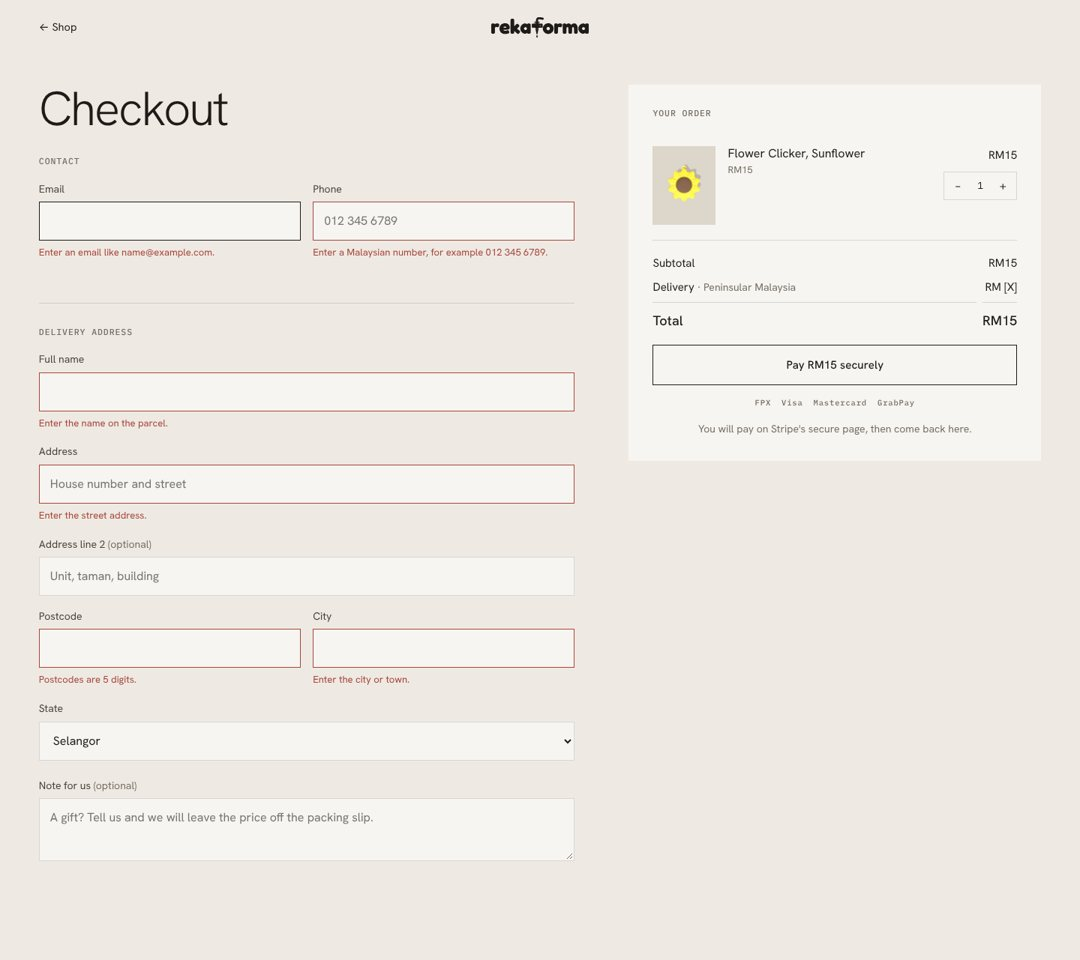
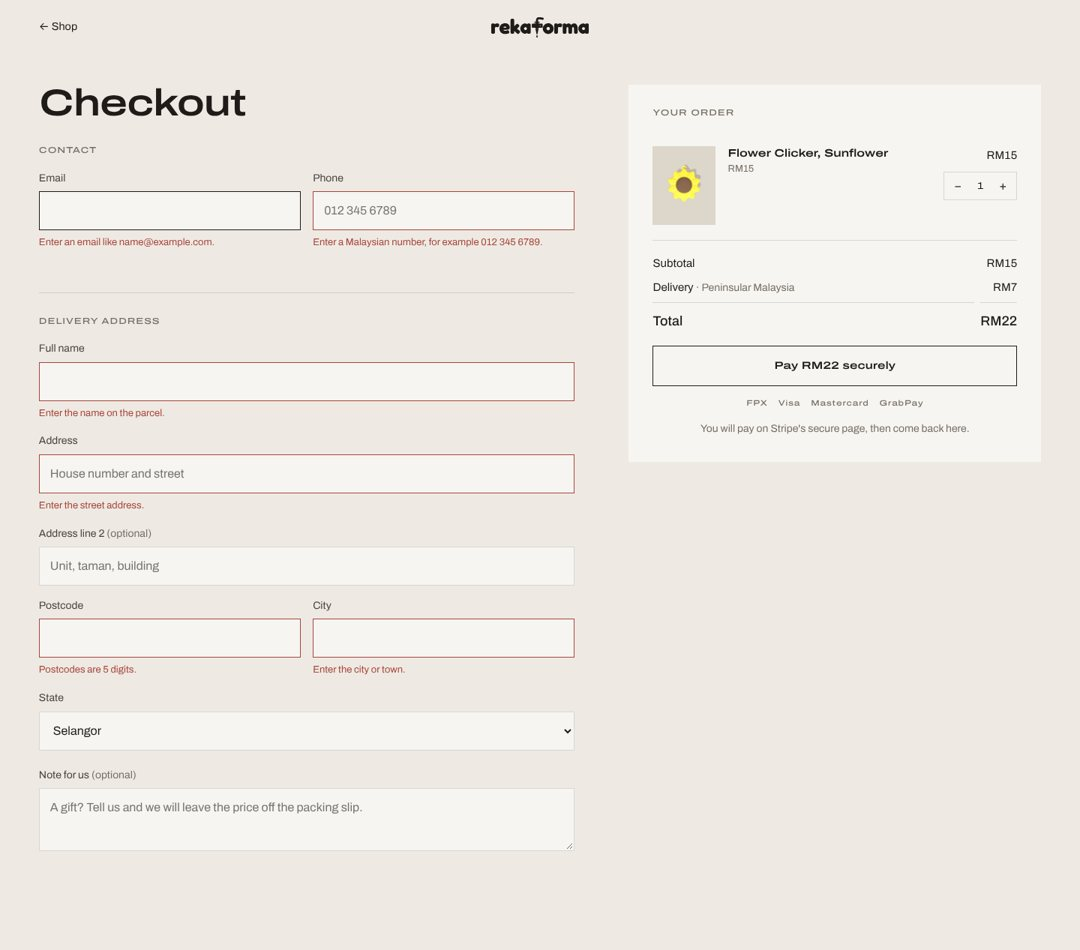
Switch typography to Archivo: expanded width for titles and labels, normal width for body
Claude-Session: https://claude.ai/code/session_01NwG5cbLNiEAMFugpgHHxMg

diff --git a/assets/css/site.css b/assets/css/site.css
@@ -14,8 +14,10 @@
   --line: rgba(30, 27, 24, .14);
   --brick: #a8453c;       /* brand signature, used sparingly */
 
-  --sans: "Hanken Grotesk", "Helvetica Neue", Arial, sans-serif;
-  --mono: "IBM Plex Mono", ui-monospace, Menlo, monospace;
+  /* one family, two widths: Archivo Expanded for titles and labels, Archivo for reading */
+  --sans: "Archivo", "Helvetica Neue", Arial, sans-serif;
+  --mono: "Archivo", "Helvetica Neue", Arial, sans-serif;
+  --wide: 125%;
 
   --gutter: clamp(16px, 3.6vw, 56px);
   --max: 1440px;
@@ -51,10 +53,10 @@ button, input, select, textarea { font: inherit; color: inherit; }
 }
 
 /* type */
-.label { font: 500 11.5px/1.3 var(--mono); letter-spacing: .08em; text-transform: uppercase; color: var(--muted); }
-.display { font: 300 clamp(44px, 6.6vw, 104px)/.98 var(--sans); letter-spacing: -.035em; margin: 0; text-wrap: balance; }
-.h2 { font: 300 clamp(34px, 4.2vw, 64px)/1.02 var(--sans); letter-spacing: -.03em; margin: 0; text-wrap: balance; }
-.statement { font: 300 clamp(26px, 3vw, 46px)/1.18 var(--sans); letter-spacing: -.025em; margin: 0; text-wrap: pretty; }
+.label { font: 500 11.5px/1.3 var(--mono); font-stretch: var(--wide); letter-spacing: .08em; text-transform: uppercase; color: var(--muted); }
+.display { font: 600 clamp(38px, 5.4vw, 84px)/1 var(--sans); font-stretch: var(--wide); letter-spacing: -.025em; margin: 0; text-wrap: balance; }
+.h2 { font: 600 clamp(28px, 3.4vw, 52px)/1.04 var(--sans); font-stretch: var(--wide); letter-spacing: -.02em; margin: 0; text-wrap: balance; }
+.statement { font: 400 clamp(24px, 2.6vw, 40px)/1.22 var(--sans); letter-spacing: -.02em; margin: 0; text-wrap: pretty; }
 .statement em { font-style: normal; color: var(--muted); }
 .body { color: var(--ink-2); max-width: 46ch; margin: 0; font-size: 17px; }
 .small { font-size: 14px; color: var(--muted); }
@@ -71,7 +73,7 @@ button, input, select, textarea { font: inherit; color: inherit; }
 .btn {
   display: inline-flex; align-items: center; justify-content: center; gap: 10px;
   min-height: 54px; padding: 0 30px; border: 1px solid var(--ink); border-radius: 0;
-  background: var(--ink); color: var(--bone); font: 500 15px/1 var(--sans); letter-spacing: .01em;
+  background: var(--ink); color: var(--bone); font: 600 14px/1 var(--sans); font-stretch: var(--wide); letter-spacing: .01em;
   text-decoration: none; cursor: pointer; transition: background .25s, color .25s;
 }
 .btn:hover { background: transparent; color: var(--ink); }
@@ -83,7 +85,7 @@ button, input, select, textarea { font: inherit; color: inherit; }
 
 /* announcement + header */
 .announce {
-  border-bottom: 1px solid var(--line); font: 500 11.5px/1.3 var(--mono); letter-spacing: .08em; text-transform: uppercase;
+  border-bottom: 1px solid var(--line); font: 500 11.5px/1.3 var(--mono); font-stretch: var(--wide); letter-spacing: .08em; text-transform: uppercase;
   color: var(--ink-2); text-align: center; padding: 11px var(--gutter);
 }
 .header {
@@ -96,7 +98,7 @@ button, input, select, textarea { font: inherit; color: inherit; }
 .nav a { font-size: 14.5px; text-decoration: none; color: var(--ink); padding: 8px 0; position: relative; }
 .nav a::after { content: ""; position: absolute; left: 0; right: 0; bottom: 2px; height: 1px; background: currentColor; transform: scaleX(0); transform-origin: right; transition: transform .35s var(--ease); }
 .nav a:hover::after, .nav a[aria-current="page"]::after { transform: scaleX(1); transform-origin: left; }
-.nav .soon { font: 500 10px/1 var(--mono); letter-spacing: .06em; color: var(--muted); margin-left: 6px; vertical-align: 1px; }
+.nav .soon { font: 500 10px/1 var(--mono); font-stretch: var(--wide); letter-spacing: .06em; color: var(--muted); margin-left: 6px; vertical-align: 1px; }
 .brand { justify-self: center; color: var(--ink); display: inline-flex; padding: 8px 0; }
 .brand .logo { width: 132px; }
 .tools { justify-self: end; display: flex; align-items: center; gap: 24px; }
@@ -117,7 +119,7 @@ button, input, select, textarea { font: inherit; color: inherit; }
     opacity: 0; transform: translateY(-6px); pointer-events: none; transition: opacity .2s, transform .2s;
   }
   .nav.open { opacity: 1; transform: none; pointer-events: auto; }
-  .nav a { font: 300 30px/1.2 var(--sans); letter-spacing: -.02em; padding: 14px 0; border-bottom: 1px solid var(--line); }
+  .nav a { font: 600 26px/1.2 var(--sans); font-stretch: var(--wide); letter-spacing: -.015em; padding: 14px 0; border-bottom: 1px solid var(--line); }
   .nav a::after { display: none; }
 }
 
@@ -128,7 +130,7 @@ button, input, select, textarea { font: inherit; color: inherit; }
   position: absolute; inset: 0; display: grid; align-content: end; gap: 24px;
   padding-block: 0 clamp(32px, 5vw, 72px);
 }
-.hero .copy > * { max-width: 14ch; }
+.hero .copy > * { max-width: 13em; }
 .hero .copy > .label { max-width: none; }
 .hero .copy .body { max-width: 36ch; }
 .hero .actions { display: flex; gap: 28px; align-items: center; flex-wrap: wrap; max-width: none; }
@@ -152,7 +154,7 @@ button, input, select, textarea { font: inherit; color: inherit; }
 .card:hover .media img.main { transform: scale(1.03); opacity: 0; }
 .card:hover .media img.alt { opacity: 1; }
 .card .row { display: flex; justify-content: space-between; align-items: baseline; gap: 12px; }
-.card h3 { margin: 0; font: 400 19px/1.3 var(--sans); letter-spacing: -.01em; }
+.card h3 { margin: 0; font: 600 16px/1.3 var(--sans); font-stretch: var(--wide); letter-spacing: -.005em; }
 .card h3 a { text-decoration: none; }
 .card h3 a::after { content: ""; position: absolute; inset: 0; }
 .card .price { font-size: 15px; font-variant-numeric: tabular-nums; }
@@ -173,7 +175,7 @@ button, input, select, textarea { font: inherit; color: inherit; }
 .spec { display: grid; grid-template-columns: 1fr auto; margin: 0; border-top: 1px solid var(--line); }
 .spec dt, .spec dd { margin: 0; padding: 12px 0; border-bottom: 1px solid var(--line); }
 .spec dt { font-size: 15px; color: var(--ink-2); }
-.spec dd { font: 400 14px/1.6 var(--mono); text-align: right; font-variant-numeric: tabular-nums; }
+.spec dd { font: 400 14px/1.6 var(--mono); font-stretch: var(--wide); text-align: right; font-variant-numeric: tabular-nums; }
 @media (max-width: 880px) { .split { grid-template-columns: 1fr; } }
 
 /* full-bleed plate */
@@ -185,7 +187,7 @@ button, input, select, textarea { font: inherit; color: inherit; }
 /* principles */
 .cols { display: grid; grid-template-columns: repeat(3, 1fr); gap: clamp(24px, 3vw, 48px); }
 .cols > div { border-top: 1px solid var(--ink); padding-top: 22px; display: grid; gap: 12px; align-content: start; }
-.cols h3 { margin: 0; font: 400 22px/1.25 var(--sans); letter-spacing: -.015em; }
+.cols h3 { margin: 0; font: 600 19px/1.25 var(--sans); font-stretch: var(--wide); letter-spacing: -.01em; }
 .cols p { margin: 0; color: var(--ink-2); font-size: 16px; max-width: 38ch; }
 @media (max-width: 800px) { .cols { grid-template-columns: 1fr; } }
 
@@ -195,7 +197,7 @@ button, input, select, textarea { font: inherit; color: inherit; }
 .dark .body { color: rgba(238, 234, 227, .78); }
 .news { display: grid; grid-template-columns: 1fr 1fr; gap: clamp(28px, 6vw, 96px); align-items: end; }
 .form { display: flex; border-bottom: 1px solid rgba(238, 234, 227, .5); }
-.form input { flex: 1; min-width: 0; min-height: 56px; background: transparent; border: 0; color: var(--bone); font: 300 22px var(--sans); padding: 0; }
+.form input { flex: 1; min-width: 0; min-height: 56px; background: transparent; border: 0; color: var(--bone); font: 400 20px var(--sans); padding: 0; }
 .form input::placeholder { color: rgba(238, 234, 227, .45); }
 .form input:focus { outline: none; }
 .form:focus-within { border-bottom-color: var(--bone); }
@@ -206,7 +208,7 @@ button, input, select, textarea { font: inherit; color: inherit; }
 /* footer */
 .footer { padding-block: 72px 28px; }
 .footer .top { display: grid; grid-template-columns: 2fr repeat(3, 1fr); gap: 32px; }
-.footer h4 { margin: 0 0 16px; font: 500 11.5px/1 var(--mono); letter-spacing: .08em; text-transform: uppercase; color: var(--muted); }
+.footer h4 { margin: 0 0 16px; font: 500 11.5px/1 var(--mono); font-stretch: var(--wide); letter-spacing: .08em; text-transform: uppercase; color: var(--muted); }
 .footer ul { list-style: none; margin: 0; padding: 0; display: grid; gap: 10px; }
 .footer a { text-decoration: none; font-size: 15px; }
 .footer a:hover { text-decoration: underline; text-underline-offset: 4px; }
@@ -226,25 +228,25 @@ button, input, select, textarea { font: inherit; color: inherit; }
 }
 .drawer.on { transform: none; }
 .drawer-head { display: flex; justify-content: space-between; align-items: center; padding: 0 24px; height: 72px; border-bottom: 1px solid var(--line); }
-.drawer-head h2 { margin: 0; font: 400 20px/1 var(--sans); letter-spacing: -.01em; }
+.drawer-head h2 { margin: 0; font: 600 18px/1 var(--sans); font-stretch: var(--wide); }
 .drawer-body { overflow-y: auto; padding: 0 24px; display: grid; align-content: start; }
 .drawer-foot { border-top: 1px solid var(--line); padding: 20px 24px 24px; display: grid; gap: 14px; }
 .line { display: grid; grid-template-columns: 84px 1fr auto; gap: 16px; align-items: start; padding: 20px 0; border-bottom: 1px solid var(--line); }
 .line img { width: 84px; height: 105px; object-fit: contain; background: var(--stone); padding: 8px; }
-.line h3 { margin: 0; font: 400 16px/1.3 var(--sans); }
+.line h3 { margin: 0; font: 600 14.5px/1.3 var(--sans); font-stretch: var(--wide); }
 .line .unit { font-size: 13px; color: var(--muted); margin-top: 2px; }
 .line .end { display: grid; justify-items: end; gap: 10px; }
 .line .amt { font-size: 15px; font-variant-numeric: tabular-nums; }
 .stepper { display: inline-flex; align-items: center; border: 1px solid var(--line); }
 .stepper button { width: 36px; height: 36px; border: 0; background: transparent; cursor: pointer; font-size: 16px; }
 .stepper button:hover { background: var(--paper); }
-.stepper output { min-width: 24px; text-align: center; font: 400 13px var(--mono); }
+.stepper output { min-width: 24px; text-align: center; font: 400 13px var(--mono); font-stretch: var(--wide); }
 .empty { padding: 64px 0; display: grid; gap: 18px; justify-items: start; color: var(--ink-2); }
 .totals { display: grid; grid-template-columns: 1fr auto; gap: 8px; margin: 0; font-size: 15px; }
 .totals dt, .totals dd { margin: 0; }
 .totals dd { text-align: right; font-variant-numeric: tabular-nums; }
 .totals .grand { font-size: 18px; font-weight: 500; padding-top: 10px; border-top: 1px solid var(--line); }
-.pays { display: flex; gap: 14px; flex-wrap: wrap; justify-content: center; font: 500 10.5px/1 var(--mono); letter-spacing: .08em; color: var(--muted); }
+.pays { display: flex; gap: 14px; flex-wrap: wrap; justify-content: center; font: 500 10.5px/1 var(--mono); font-stretch: var(--wide); letter-spacing: .08em; color: var(--muted); }
 .icon-btn { width: 44px; height: 44px; display: inline-grid; place-items: center; background: none; border: 0; cursor: pointer; }
 .icon-btn svg { width: 20px; height: 20px; }
 
@@ -255,7 +257,7 @@ button, input, select, textarea { font: inherit; color: inherit; }
 .toast.on { opacity: 1; transform: translate(-50%, 0); }
 
 /* ---------- product page ---------- */
-.crumbs { font: 500 11.5px/1 var(--mono); letter-spacing: .06em; text-transform: uppercase; color: var(--muted); padding-block: 22px; display: flex; gap: 10px; flex-wrap: wrap; }
+.crumbs { font: 500 11.5px/1 var(--mono); font-stretch: var(--wide); letter-spacing: .06em; text-transform: uppercase; color: var(--muted); padding-block: 22px; display: flex; gap: 10px; flex-wrap: wrap; }
 .crumbs a { text-decoration: none; }
 .crumbs a:hover { color: var(--ink); }
 .pdp { display: grid; grid-template-columns: minmax(0, 1.35fr) minmax(0, 1fr); gap: clamp(28px, 5vw, 96px); align-items: start; padding-bottom: 40px; }
@@ -264,20 +266,20 @@ button, input, select, textarea { font: inherit; color: inherit; }
 .viewer:active { cursor: grabbing; }
 .viewer img { position: absolute; inset: 6%; width: 88%; height: 88%; object-fit: contain; pointer-events: none; }
 .viewer img.cover { inset: 0; width: 100%; height: 100%; object-fit: cover; }
-.viewer .hint { position: absolute; left: 20px; bottom: 18px; font: 500 11px/1 var(--mono); letter-spacing: .08em; text-transform: uppercase; color: var(--ink-2); display: flex; gap: 8px; align-items: center; transition: opacity .4s; }
+.viewer .hint { position: absolute; left: 20px; bottom: 18px; font: 500 11px/1 var(--mono); font-stretch: var(--wide); letter-spacing: .08em; text-transform: uppercase; color: var(--ink-2); display: flex; gap: 8px; align-items: center; transition: opacity .4s; }
 .viewer .hint svg { width: 16px; height: 16px; }
 .viewer.used .hint, .viewer.still .hint { opacity: 0; }
-.viewer .loading { position: absolute; top: 18px; right: 20px; font: 500 11px/1 var(--mono); letter-spacing: .06em; text-transform: uppercase; color: var(--muted); }
+.viewer .loading { position: absolute; top: 18px; right: 20px; font: 500 11px/1 var(--mono); font-stretch: var(--wide); letter-spacing: .06em; text-transform: uppercase; color: var(--muted); }
 .thumbs { display: grid; grid-template-columns: repeat(6, 1fr); gap: 10px; }
 .thumbs button { aspect-ratio: 1; border: 0; background: var(--stone); padding: 0; cursor: pointer; position: relative; }
 .thumbs button::after { content: ""; position: absolute; inset: 0; box-shadow: inset 0 0 0 1px transparent; transition: box-shadow .2s; }
 .thumbs button[aria-pressed="true"]::after { box-shadow: inset 0 0 0 1.5px var(--ink); }
 .thumbs img { width: 100%; height: 100%; object-fit: contain; padding: 8%; }
 .thumbs img.cover { object-fit: cover; padding: 0; }
-.thumbs .t360 { font: 500 12px/1 var(--mono); letter-spacing: .04em; }
+.thumbs .t360 { font: 500 12px/1 var(--mono); font-stretch: var(--wide); letter-spacing: .04em; }
 
 .buy { display: grid; gap: 28px; position: sticky; top: calc(96px + env(safe-area-inset-top, 0px)); }
-.buy h1 { font: 300 clamp(40px, 4.2vw, 64px)/1 var(--sans); letter-spacing: -.035em; margin: 10px 0 0; }
+.buy h1 { font: 600 clamp(32px, 3.4vw, 50px)/1.02 var(--sans); font-stretch: var(--wide); letter-spacing: -.02em; margin: 10px 0 0; }
 .buy .price { font-size: 20px; font-variant-numeric: tabular-nums; }
 .opt { display: grid; gap: 14px; }
 .opt-label { display: flex; justify-content: space-between; font-size: 14px; }
@@ -289,13 +291,13 @@ button, input, select, textarea { font: inherit; color: inherit; }
 .qty-row { display: grid; grid-template-columns: auto 1fr; gap: 10px; }
 .qty { display: inline-flex; align-items: center; border: 1px solid var(--ink); }
 .qty button { width: 46px; height: 52px; border: 0; background: transparent; cursor: pointer; font-size: 18px; }
-.qty output { min-width: 26px; text-align: center; font: 400 14px var(--mono); }
+.qty output { min-width: 26px; text-align: center; font: 400 14px var(--mono); font-stretch: var(--wide); }
 .hear { display: flex; align-items: center; gap: 16px; padding: 16px 18px; background: var(--paper); }
 .hear p { margin: 0; font-size: 14px; color: var(--ink-2); flex: 1; }
 .hear button {
   flex: none; width: 56px; height: 56px; border-radius: 50%; border: 1px solid var(--ink); background: var(--bone); cursor: pointer;
   box-shadow: 0 4px 0 var(--ink); transition: transform .06s, box-shadow .06s; touch-action: manipulation; user-select: none; -webkit-user-select: none;
-  font: 500 10px/1 var(--mono); letter-spacing: .06em;
+  font: 500 10px/1 var(--mono); font-stretch: var(--wide); letter-spacing: .06em;
 }
 .hear button.down { transform: translateY(4px); box-shadow: 0 0 0 var(--ink); }
 .acc { border-top: 1px solid var(--line); }
@@ -318,10 +320,10 @@ button, input, select, textarea { font: inherit; color: inherit; }
 
 /* ---------- checkout ---------- */
 .checkout { display: grid; grid-template-columns: minmax(0, 1.3fr) minmax(0, 1fr); gap: clamp(28px, 5vw, 96px); align-items: start; padding-block: 40px 96px; }
-.checkout h1 { font: 300 clamp(40px, 4.6vw, 64px)/1 var(--sans); letter-spacing: -.035em; margin: 0 0 32px; }
+.checkout h1 { font: 600 clamp(32px, 3.6vw, 50px)/1 var(--sans); font-stretch: var(--wide); letter-spacing: -.02em; margin: 0 0 32px; }
 .panel { display: grid; gap: 20px; padding-bottom: 36px; }
 .panel + .panel { padding-top: 32px; border-top: 1px solid var(--line); }
-.panel h2 { margin: 0; font: 500 11.5px/1 var(--mono); letter-spacing: .08em; text-transform: uppercase; color: var(--muted); }
+.panel h2 { margin: 0; font: 500 11.5px/1 var(--mono); font-stretch: var(--wide); letter-spacing: .08em; text-transform: uppercase; color: var(--muted); }
 .fields { display: grid; grid-template-columns: 1fr 1fr; gap: 16px; }
 .fields .full { grid-column: 1 / -1; }
 .f { display: grid; gap: 6px; }
@@ -332,7 +334,7 @@ button, input, select, textarea { font: inherit; color: inherit; }
 .f [aria-invalid="true"] { border-color: var(--brick); }
 .f .err { font-size: 13px; color: var(--brick); }
 .summary { position: sticky; top: calc(96px + env(safe-area-inset-top, 0px)); background: var(--paper); padding: clamp(20px, 2.4vw, 32px); display: grid; gap: 18px; }
-.summary h2 { margin: 0; font: 500 11.5px/1 var(--mono); letter-spacing: .08em; text-transform: uppercase; color: var(--muted); }
+.summary h2 { margin: 0; font: 500 11.5px/1 var(--mono); font-stretch: var(--wide); letter-spacing: .08em; text-transform: uppercase; color: var(--muted); }
 .notice { border-left: 2px solid var(--brick); padding: 10px 14px; font-size: 14px; color: var(--ink-2); background: var(--bone); }
 @media (max-width: 920px) { .checkout { grid-template-columns: 1fr; } .summary { position: static; order: -1; } .fields { grid-template-columns: 1fr; } }
 

diff --git a/checkout.html b/checkout.html
@@ -8,7 +8,7 @@
 <meta name="theme-color" content="#eeeae3">
 <link rel="preconnect" href="https://fonts.googleapis.com">
 <link rel="preconnect" href="https://fonts.gstatic.com" crossorigin>
-<link href="https://fonts.googleapis.com/css2?family=Hanken+Grotesk:wght@300;400;500;600&family=IBM+Plex+Mono:wght@400;500&display=swap" rel="stylesheet">
+<link href="https://fonts.googleapis.com/css2?family=Archivo:wdth,wght@62..125,300..700&display=swap" rel="stylesheet">
 <link rel="stylesheet" href="assets/css/site.css">
 <link rel="icon" href="assets/img/favicon.svg" type="image/svg+xml">
 </head>

diff --git a/index.html b/index.html
@@ -8,7 +8,7 @@
 <meta name="theme-color" content="#eeeae3">
 <link rel="preconnect" href="https://fonts.googleapis.com">
 <link rel="preconnect" href="https://fonts.gstatic.com" crossorigin>
-<link href="https://fonts.googleapis.com/css2?family=Hanken+Grotesk:wght@300;400;500;600&family=IBM+Plex+Mono:wght@400;500&display=swap" rel="stylesheet">
+<link href="https://fonts.googleapis.com/css2?family=Archivo:wdth,wght@62..125,300..700&display=swap" rel="stylesheet">
 <link rel="stylesheet" href="assets/css/site.css">
 <link rel="icon" href="assets/img/favicon.svg" type="image/svg+xml">
 </head>

diff --git a/product.html b/product.html
@@ -8,7 +8,7 @@
 <meta name="theme-color" content="#eeeae3">
 <link rel="preconnect" href="https://fonts.googleapis.com">
 <link rel="preconnect" href="https://fonts.gstatic.com" crossorigin>
-<link href="https://fonts.googleapis.com/css2?family=Hanken+Grotesk:wght@300;400;500;600&family=IBM+Plex+Mono:wght@400;500&display=swap" rel="stylesheet">
+<link href="https://fonts.googleapis.com/css2?family=Archivo:wdth,wght@62..125,300..700&display=swap" rel="stylesheet">
 <link rel="stylesheet" href="assets/css/site.css">
 <link rel="icon" href="assets/img/favicon.svg" type="image/svg+xml">
 </head>

diff --git a/thanks.html b/thanks.html
@@ -8,7 +8,7 @@
 <meta name="theme-color" content="#eeeae3">
 <link rel="preconnect" href="https://fonts.googleapis.com">
 <link rel="preconnect" href="https://fonts.gstatic.com" crossorigin>
-<link href="https://fonts.googleapis.com/css2?family=Hanken+Grotesk:wght@300;400;500;600&family=IBM+Plex+Mono:wght@400;500&display=swap" rel="stylesheet">
+<link href="https://fonts.googleapis.com/css2?family=Archivo:wdth,wght@62..125,300..700&display=swap" rel="stylesheet">
 <link rel="stylesheet" href="assets/css/site.css">
 <link rel="icon" href="assets/img/favicon.svg" type="image/svg+xml">
 </head>
